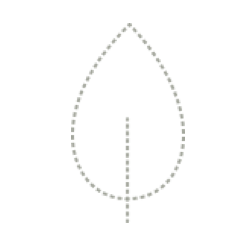
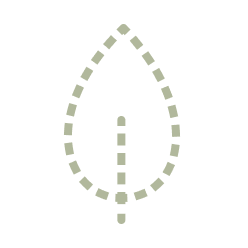
feat: style and text adjustments
- change info icon and back link to gdk blue and semibold
- add tree colors
- exchange unknown tree image
- add all text to i18n
- styling info card
- adjust padding
- use existing skeleton animation

Changed region(s): [[0.254, 0.0847, 0.7621, 0.9032]]

diff --git a/src/i18n/de.ts b/src/i18n/de.ts
@@ -536,11 +536,12 @@ Insbesondere junge Bäume brauchen in den ersten Jahren Wasser. Lieber seltener,
 		streetTrees: "Stadtbäume",
 		publicPumps: "Öffentliche Pumpen",
 		activeUsers: "Aktive Gießer:innen",
+		backToFront: "zurück",
 		wateringsStat: {
 			title: "Gießungen",
 			unit: "mal",
 			legend: "Anzahl der Gießungen",
-			hint: (currentYear) => `wurde im Jahr ${currentYear} gegossen`,
+			hint: (currentYear) => `wurde im Jahr ${currentYear} gegossen.`,
 			backContent:
 				"Die zwölf Berliner Bezirke unterscheiden sich in deren Baumbeständen und Bewässerungsstrategien. Demnach sind manche Straßen- und Grünflächenämter mehr und manche weniger auf ehrenamtliches Engagement angewiesen, je nach Anteil der Jungbäume und verfügbaren Ressourcen.",
 			backSourceLink: undefined,
@@ -548,8 +549,8 @@ Insbesondere junge Bäume brauchen in den ersten Jahren Wasser. Lieber seltener,
 		wateringBehaviorStat: {
 			title: "Gießverhalten",
 			unit: "Liter",
-			legend: "Monatswerte in Liter",
-			hint: () => `werden durchschnittlich pro Monat gegossen`,
+			legend: "Liter pro Monat",
+			hint: () => `wurden insgesamt schon gegossen.`,
 			backContent:
 				"“Je mehr desto besser” gilt nicht immer angesichts immer größerer Wasserknappheit. Das weiß die Berliner Gieß-Community schon längst und ist daher hauptsächlich dann aktiv wenn die Bäume tatsächlich durstig sind: während der  Vegetationsperiode (April-Oktober), insbesondere in heißen trockenen Sommern.",
 			backSourceLink: undefined,
@@ -557,9 +558,9 @@ Insbesondere junge Bäume brauchen in den ersten Jahren Wasser. Lieber seltener,
 		wateringAmountStat: {
 			title: "Gießvolumen",
 			unit: "Liter",
-			legend: "Monatswerte in Liter",
+			legend: "Ø Liter pro Jahr",
 			hint: (currentYear) =>
-				`werden ${currentYear} durchschnittlich pro Monat gegossen`,
+				`werden ${currentYear} durchschnittlich pro Gießung eingetragen.`,
 			backContent:
 				"“Je mehr desto besser” gilt hier hingegen schon: Eine Gießung bei Jungbäumen sollte eher mehr als weniger Liter auf einmal beinhalten (ca. 100-200 Liter), damit sich das Wurzelwerk nach unten ausbildet und nicht an der Oberfläche verweilt. Aber Achtung! Jungbäume können auch überwässert werden und absterben. Daher hier die Bewässerungsempfehlung für Stadtbäume und außerdem das bezirkliche Straßen- und Grünflächenamt konsultieren.",
 			backSourceLink: "",
@@ -567,7 +568,7 @@ Insbesondere junge Bäume brauchen in den ersten Jahren Wasser. Lieber seltener,
 		treeSpeciesStat: {
 			title: "Baumarten",
 			unit: "Baumarten",
-			hint: () => `stehen in Berlin`,
+			hint: () => `stehen in Berlin.`,
 			legend: "Anteile Berliner Baumbestand",
 			backContent:
 				"Die Karte visualisiert mehr als 800.000 Stadtbäume und zeigt Informationen zu Art, Alter und Wasserbedarf an. Nutze die Filter- und Suchfunktionen und erfahre bspw. mehr über die Altersverteilung.",
@@ -576,7 +577,8 @@ Insbesondere junge Bäume brauchen in den ersten Jahren Wasser. Lieber seltener,
 		adoptionStat: {
 			title: "Baumadoptionen",
 			unit: "Bäume",
-			hint: () => `sind adoptiert`,
+			hint: () => `sind adoptiert.`,
+			legend: "der adoptierten Bäume sind besonders durstig.",
 			backContent:
 				"Baumadoptionen dienen der übergreifenden Koordination: mein Nachbar sieht ich gieße den Baum. “Besonders durstig” sind Jungbäume, welche nicht von den Bezirken gegossen werden. Aufgrund von fehlender öffentlicher Daten kann das nicht eins zu seins abgebildet werden und wird pauschal auf 5-10 Jahre geschätzt.",
 			backSourceLink: "",

diff --git a/src/components/stats/stats.tsx b/src/components/stats/stats.tsx
@@ -199,7 +199,13 @@ export const Stats: React.FC = () => {
 									stat={stats?.waterings.length || 0}
 									unit={i18n.stats.wateringsStat.unit}
 									titleColor="text-gdk-dark-blue"
-									icon={<WateringCanIcon></WateringCanIcon>}
+									icon={
+										<div
+											className={`flex h-9 w-9 p-0.5 items-center justify-center bg-gdk-dark-blue bg-opacity-30 rounded-full `}
+										>
+											<WateringCanIcon className="translate-x-1" />
+										</div>
+									}
 									onResize={(width) => {
 										setDynamicChartWidth(width);
 									}}
@@ -221,7 +227,13 @@ export const Stats: React.FC = () => {
 									stat={averageNumWateringsPerMonth}
 									unit={i18n.stats.wateringBehaviorStat.unit}
 									titleColor="text-gdk-dark-blue"
-									icon={<DropIcon></DropIcon>}
+									icon={
+										<div
+											className={`flex h-9 w-9 items-center justify-center bg-gdk-dark-blue bg-opacity-30 rounded-full `}
+										>
+											<DropIcon />
+										</div>
+									}
 									onResize={(width) => {
 										setDynamicChartWidth(width);
 									}}
@@ -247,7 +259,13 @@ export const Stats: React.FC = () => {
 									stat={averageAmountPerWatering}
 									unit={i18n.stats.wateringAmountStat.unit}
 									titleColor="text-gdk-dark-blue"
-									icon={<DropIcon></DropIcon>}
+									icon={
+										<div
+											className={`flex h-9 w-9 items-center justify-center bg-gdk-dark-blue bg-opacity-30 rounded-full `}
+										>
+											<DropIcon />
+										</div>
+									}
 									onResize={(width) => {
 										setDynamicChartWidth(width);
 									}}
@@ -270,7 +288,15 @@ export const Stats: React.FC = () => {
 									stat={stats?.totalTreeSpeciesCount ?? 0}
 									unit={i18n.stats.treeSpeciesStat.unit}
 									titleColor="text-gdk-dark-green"
-									icon={<TreeIcon></TreeIcon>}
+									icon={
+										<div
+											className={`flex h-9 w-9 items-center justify-center bg-gdk-dark-green bg-opacity-30 rounded-full `}
+										>
+											<div className="translate-x-1">
+												<TreeIcon />
+											</div>
+										</div>
+									}
 									onResize={(width) => {
 										setDynamicChartWidth(width);
 									}}
@@ -301,6 +327,7 @@ export const Stats: React.FC = () => {
 								>
 									<AdoptionsChart
 										veryThirstyAdoptionsRate={veryThirstyAdoptionsRate}
+										legend={i18n.stats.adoptionStat.legend}
 									/>
 								</StatsCard>
 							</div>

diff --git a/src/components/stats/bar-chart.tsx b/src/components/stats/bar-chart.tsx
@@ -16,7 +16,7 @@ interface BarChartProps {
 	weatherData: MonthlyWeather[];
 	width: number;
 	height: number;
-	legend?: string;
+	legend: string;
 }
 
 export const BarChart: React.FC<BarChartProps> = ({
@@ -27,7 +27,7 @@ export const BarChart: React.FC<BarChartProps> = ({
 	legend,
 }) => {
 	const svgRef = useRef<SVGSVGElement | null>(null);
-	const svgMargin = { top: 0, right: 30, bottom: 50, left: 30 };
+	const svgMargin = { top: 0, right: 30, bottom: 50, left: 20 };
 	const [hovered, setHovered] = React.useState<Monthly>();
 	const last3Years = monthlyData.slice(-3 * 12);
 	const yReferenceLineValue = 100000;
@@ -96,11 +96,22 @@ export const BarChart: React.FC<BarChartProps> = ({
 			.attr("x", width - svgMargin.right + 3)
 			.attr(
 				"y",
-				yScale(yReferenceLineValue) + svgMargin.top - svgMargin.bottom + 3,
+				yScale(yReferenceLineValue) + svgMargin.top - svgMargin.bottom - 2,
 			)
 			.attr("text-anchor", "start")
 			.attr("fill", defaultLabelColor)
 			.text(`${formatNumber(yReferenceLineValue / 1000)}k l`)
+			.attr("font-size", "12px");
+		svg
+			.append("text")
+			.attr("x", width - svgMargin.right + 3)
+			.attr(
+				"y",
+				yScale(yReferenceLineValue) + svgMargin.top - svgMargin.bottom + 11,
+			)
+			.attr("text-anchor", "start")
+			.attr("fill", defaultLabelColor)
+			.text(`Liter`)
 			.attr("font-size", "12px");
 
 		svg

diff --git a/src/components/stats/line-chart.tsx b/src/components/stats/line-chart.tsx
@@ -13,7 +13,7 @@ interface LineChartProps {
 	yearlyData: Yearly[];
 	width: number;
 	height: number;
-	legend?: string;
+	legend: string;
 }
 
 export const LineChart: React.FC<LineChartProps> = ({
@@ -26,7 +26,7 @@ export const LineChart: React.FC<LineChartProps> = ({
 	const secondYReferenceLineValue = 50;
 
 	const svgRef = useRef<SVGSVGElement | null>(null);
-	const svgMargin = { top: 0, right: 30, bottom: 50, left: 30 };
+	const svgMargin = { top: 0, right: 25, bottom: 50, left: 20 };
 	const { formatNumber } = useI18nStore();
 
 	useEffect(() => {
@@ -67,7 +67,7 @@ export const LineChart: React.FC<LineChartProps> = ({
 
 				svg
 					.append("text")
-					.attr("x", width - svgMargin.right)
+					.attr("x", width - svgMargin.right + 5)
 					.attr(
 						"y",
 						y(yReferenceLineValue) + svgMargin.top - svgMargin.bottom + 2.5,

diff --git a/src/components/stats/donut-chart.tsx b/src/components/stats/donut-chart.tsx
@@ -7,7 +7,7 @@ interface DonutChartProps {
 	treeSpecies: TreeSpecies[];
 	width: number;
 	height: number;
-	legend?: string;
+	legend: string;
 }
 
 export const DonutChart: React.FC<DonutChartProps> = ({
@@ -51,7 +51,7 @@ export const DonutChart: React.FC<DonutChartProps> = ({
 			.attr("width", width)
 			.attr("height", height)
 			.append("g")
-			.attr("transform", `translate(${width / 2},${height / 2 - 20})`);
+			.attr("transform", `translate(${width / 2},${height / 2 - 30})`);
 
 		svg.select("g").selectAll("*").remove();
 
@@ -89,7 +89,7 @@ export const DonutChart: React.FC<DonutChartProps> = ({
 		svg
 			.append("text")
 			.attr("x", 0)
-			.attr("y", height / 2 + 20)
+			.attr("y", height / 2 + 12)
 			.attr("fill", speciesLabelColor)
 			.attr("text-anchor", "middle")
 			.text(`${legend}`)

diff --git a/src/components/stats/adoptions-chart.tsx b/src/components/stats/adoptions-chart.tsx
@@ -3,10 +3,12 @@ import { adoptionsFillColor } from "./chart-colors";
 
 interface AdoptionsChartProps {
 	veryThirstyAdoptionsRate: number;
+	legend?: string;
 }
 
 export const AdoptionsChart: React.FC<AdoptionsChartProps> = ({
 	veryThirstyAdoptionsRate,
+	legend,
 }) => {
 	return (
 		<div className="w-full">
@@ -29,8 +31,8 @@ export const AdoptionsChart: React.FC<AdoptionsChartProps> = ({
 					style={{ color: adoptionsFillColor }}
 					className={`text-[${adoptionsFillColor}] text-xl pt-2`}
 				>
-					<span className="font-bold">{veryThirstyAdoptionsRate}%</span> der
-					adoptierten Bäume sind besonders durstig.
+					<span className="font-bold">{veryThirstyAdoptionsRate}% </span>
+					{legend}
 				</div>
 			</div>
 		</div>

diff --git a/src/i18n/en.ts b/src/i18n/en.ts
@@ -526,6 +526,7 @@ Particularly young trees need water in the first few years. Rather less often, b
 		streetTrees: "Street Trees",
 		publicPumps: "Public Pumps",
 		activeUsers: "Active Waterers",
+		backToFront: "zurück",
 		wateringsStat: {
 			title: "Waterings",
 			unit: "times",
@@ -567,6 +568,7 @@ Particularly young trees need water in the first few years. Rather less often, b
 			title: "Tree Adoptions",
 			unit: "trees",
 			hint: () => `were adopted`,
+			legend: "out of the adopted trees are especially thirsty.",
 			backContent: "",
 			backSourceLink: "",
 		},

diff --git a/src/i18n/content-types.ts b/src/i18n/content-types.ts
@@ -316,7 +316,7 @@ interface Stat {
 	title: string;
 	unit: string;
 	hint: (currentYear: string) => string;
-	legend?: string;
+	legend: string;
 	backContent: string;
 	backSourceLink?: string;
 }
@@ -327,6 +327,7 @@ interface Stats {
 	streetTrees: string;
 	publicPumps: string;
 	activeUsers: string;
+	backToFront: string;
 	wateringsStat: Stat;
 	wateringBehaviorStat: Stat;
 	wateringAmountStat: Stat;

diff --git a/src/components/stats/chart-colors.tsx b/src/components/stats/chart-colors.tsx
@@ -23,5 +23,14 @@ export const speciesColors = [
 	"#7E7B22",
 	"#CFB739",
 	"#B1B89C",
-	"#A3A69C",
+	"#C3CC71",
+	"#92B30E",
+	"#B2A31B",
+	"#DCBE72",
+	"#879871",
+	"#99B766",
+	"#8E982C",
+	"#7E7B22",
+	"#CFB739",
+	"#96A491",
 ];

diff --git a/src/components/stats/density-map.tsx b/src/components/stats/density-map.tsx
@@ -11,7 +11,7 @@ interface DensityMapProps {
 	data: { lat: number; lng: number; amount: number }[];
 	width: number;
 	height: number;
-	legend?: string;
+	legend: string;
 }
 
 interface DataPoint {
